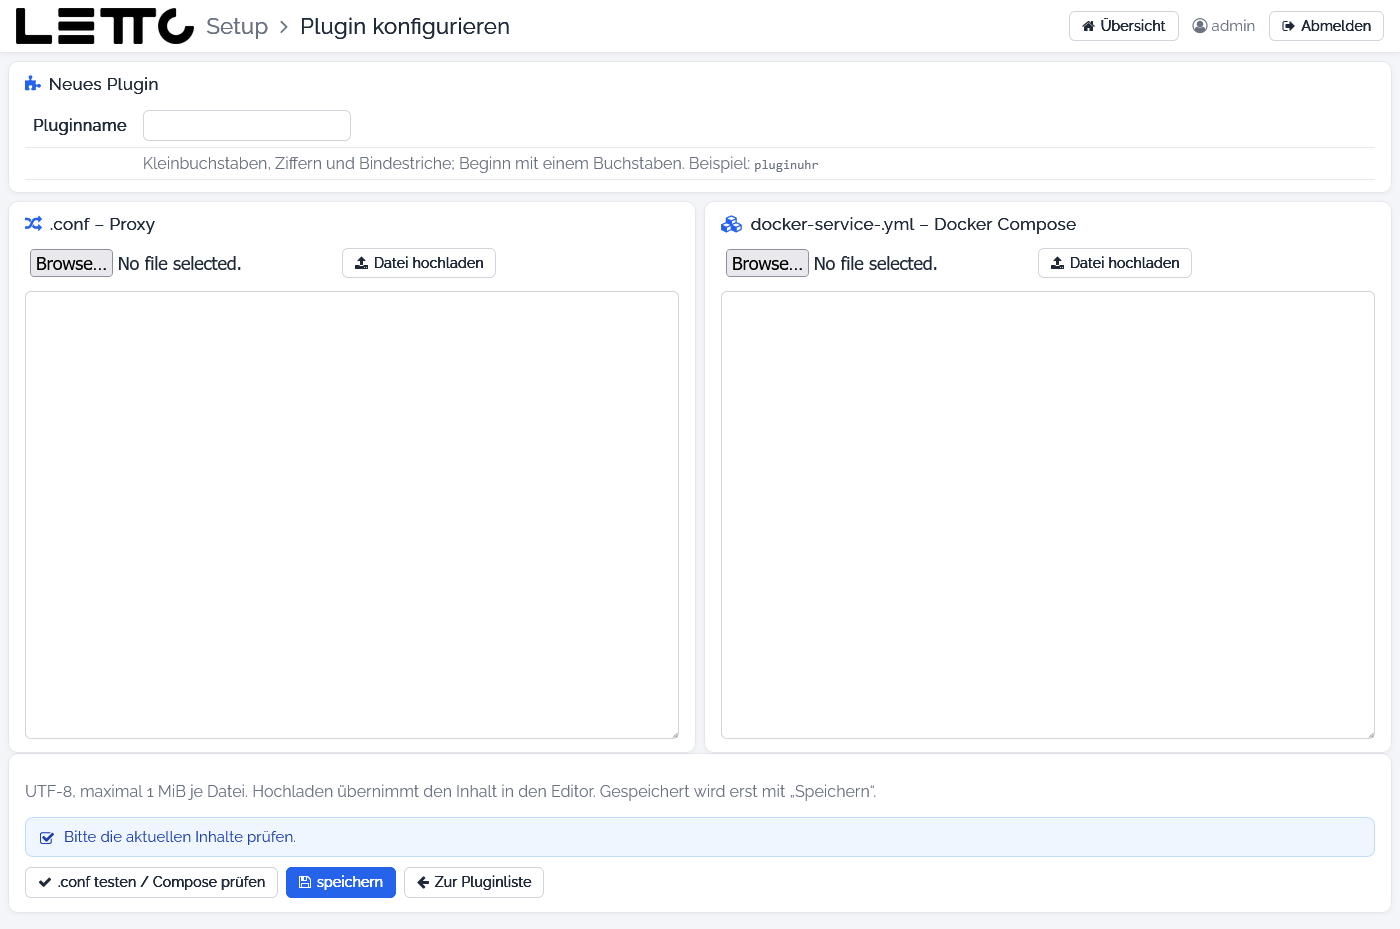
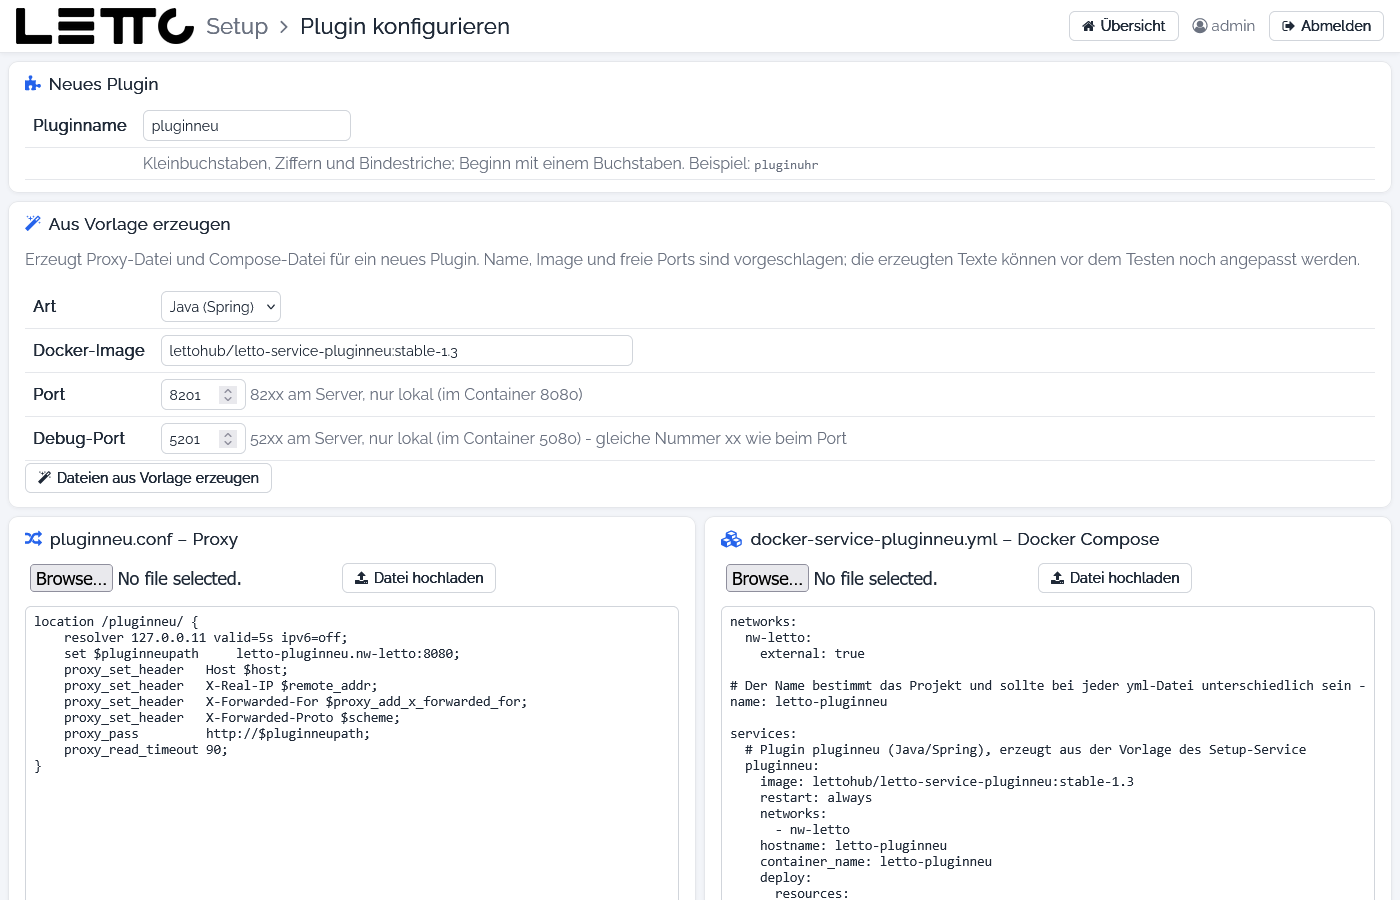
Setup-Service-Doku: Plugins aus Vorlage anlegen, ein Button für beide Plugin-Dateien, Screenshots erneuert

diff --git a/docs/wiki/Administration/Setup-Service/Plugin-hinzufuegen/index.md b/docs/wiki/Administration/Setup-Service/Plugin-hinzufuegen/index.md
@@ -9,8 +9,28 @@ Ein neues Plugin besteht aus zwei Dateien, die hier eingegeben oder hochgeladen 
 * der Proxy-Konfiguration `/opt/letto/docker/proxy/<name>.conf`, damit das Plugin über `https://<server>/<name>` erreichbar ist,
 * der Compose-Datei `/opt/letto/docker/compose/letto/docker-service-<name>.yml`, die den Container beschreibt.
 
-Vorlagen für eigene Plugins gibt es beim [Referenz-Plugin Java](../../../Plugins/referenz-plugin-java/index.md) und
+Beide Dateien unterscheiden sich zwischen den Plugins meist nur in wenigen Werten. Deshalb erzeugt die Seite sie beim
+Öffnen bereits aus einer Vorlage (siehe unten); sie können aber auch selbst geschrieben oder hochgeladen werden.
+Hintergrund zu eigenen Plugins: [Referenz-Plugin Java](../../../Plugins/referenz-plugin-java/index.md) und
 [Referenz-Plugin Python](../../../Plugins/referenz-plugin-python/index.md).
+
+## Aus Vorlage erzeugen
+
+Die Karte **Aus Vorlage erzeugen** schlägt alle Werte vor, sodass es keine Konflikte mit vorhandenen Diensten gibt:
+
+| Feld | Vorschlag |
+|---|---|
+| Pluginname (Karte darüber) | `pluginneu`, `pluginneu2`, … – der erste Name ohne vorhandene Dateien |
+| Art | **Java (Spring)** (wie die LeTTo-Plugins) oder **Python** (wie `plugindemopython`) |
+| Docker-Image | `lettohub/letto-service-<name>:stable-1.3`; folgt beim Tippen dem Pluginnamen, bis es selbst geändert wird |
+| Port | `82xx` am Server, im Container `8080` |
+| Debug-Port | `52xx` am Server, im Container `5080` – folgt dem Port, `xx` ist bei beiden gleich |
+
+`xx` ist die kleinste Nummer, die weder als `82xx` noch als `52xx` in einer Compose-Datei, der `.env` oder bei einem
+Container vorkommt. Beide Ports werden nur lokal (`127.0.0.1`) gebunden – von außen ist das Plugin nur über den Proxy
+erreichbar, Debuggen geht per SSH-Tunnel. **Dateien aus Vorlage erzeugen** schreibt beide Textfelder neu (mit Rückfrage,
+wenn sie schon Text enthalten). Ist ein Port bereits belegt, kommt eine Meldung. Danach die Texte bei Bedarf anpassen,
+testen und speichern.
 
 ## Felder
 
@@ -27,8 +47,8 @@ Textfeld, gespeichert wird erst mit **speichern**.
 
 | Button | Wirkung |
 |---|---|
-| .conf testen / Compose prüfen | prüft die nginx-Konfiguration in einer Kopie des Proxy-Containers und die Compose-Datei mit `docker compose config`; das Ergebnis steht im Hinweisfeld darüber |
-| speichern | erst nach erfolgreicher Prüfung möglich; schreibt beide Dateien (vorhandene Dateien werden nicht überschrieben). Jede Änderung im Textfeld verlangt eine neue Prüfung |
+| Testen | prüft beide Dateien: die nginx-Konfiguration in einer Kopie des Proxy-Containers und die Compose-Datei mit `docker compose config`. Das Ergebnis beider Prüfungen steht im Hinweisfeld, Fehler mit Dateiname und Zeile (z. B. `unknown directive "x" in pluginneu.conf:2`) |
+| Speichern | erst möglich, wenn beide Dateien im aktuellen Stand erfolgreich geprüft sind; jede Änderung im Textfeld verlangt eine neue Prüfung. Ein neues Plugin überschreibt keine vorhandenen Dateien |
 | Zur Pluginliste | zurück zur Seite [Plugins](../Plugins/index.md) |
 
 Nach dem Speichern wird der Container noch nicht gestartet. Die Seite wechselt zu den
@@ -36,7 +56,9 @@ Nach dem Speichern wird der Container noch nicht gestartet. Die Seite wechselt z
 **Proxy prüfen und neu starten** drücken. Sobald das Plugin läuft, meldet es sich selbst an und erscheint mit allen
 Angaben in der Liste der [Plugins](../Plugins/index.md).
 
-Dieselbe Seite öffnet sich auch über **Proxy-Datei bearbeiten** bzw. **Compose-Datei bearbeiten** in den
-Plugin-Details. Dann ist der Pluginname fest und nur die gewählte Datei änderbar.
+Dieselbe Seite öffnet sich auch über **Dateien bearbeiten** in den Plugin-Details. Dann ist der Pluginname fest, die
+Karte **Aus Vorlage erzeugen** fehlt und beide Dateien sind änderbar; gespeichert werden immer beide gemeinsam.
+Änderungen an der Compose-Datei wirken nach **Starten**, Änderungen an der Proxy-Datei nach
+**Proxy prüfen und neu starten**.
 
 Zurück zur Übersicht: [Setup-Service](../index.md)

diff --git a/docs/wiki/Administration/Setup-Service/Plugins/index.md b/docs/wiki/Administration/Setup-Service/Plugins/index.md
@@ -44,13 +44,12 @@ aktualisiert.
 | Button | Wirkung |
 |---|---|
 | Abbruch | zurück zur Liste |
-| Proxy-Datei bearbeiten | öffnet `/opt/letto/docker/proxy/<name>.conf` in der Seite [Plugin hinzufügen](../Plugin-hinzufuegen/index.md) zum Bearbeiten; vor dem Speichern wird die Datei geprüft |
-| Compose-Datei bearbeiten | öffnet `docker-service-<name>.yml` ebenso zum Bearbeiten |
+| Dateien bearbeiten | öffnet `/opt/letto/docker/proxy/<name>.conf` und `docker-service-<name>.yml` gemeinsam in der Seite [Plugin hinzufügen](../Plugin-hinzufuegen/index.md); vor dem Speichern werden beide geprüft |
 | Starten | startet den Container (`docker compose up -d`) |
 | Neu starten | startet den Container neu |
-| Aktualisieren | lädt das Image neu und startet den Container |
+| Aktualisieren | lädt das Image neu (bis zu 3 Versuche) und startet den Container damit; kann das Image nicht geholt werden, bleibt der Container unverändert und die Befehlsausgabe meldet es |
 | Logs | zeigt die letzten 1000 Zeilen des Container-Logs in der [Befehlsausgabe](../Befehlsausgabe/index.md) |
-| Proxy prüfen und neu starten | prüft die nginx-Konfiguration und startet den Proxy neu (mit Rückfrage – alle Schulen sind dabei kurz nicht erreichbar) |
+| Proxy prüfen und neu starten | startet den Proxy abgesichert neu (mit Rückfrage – alle Schulen sind dabei kurz nicht erreichbar): fehlerhafte Proxy-Dateien werden deaktiviert, und es wird gewartet, bis der Proxy wieder funktioniert – siehe [Proxy-Konfiguration](../Proxy-Konfiguration/index.md#fehlerhafte-konfigurationsdateien) |
 
 Hat sich ein Plugin noch nicht beim Setup angemeldet (z. B. gleich nach dem Anlegen), zeigt die Seite statt der Angaben
 einen Hinweis; die Buttons stehen trotzdem zur Verfügung.
